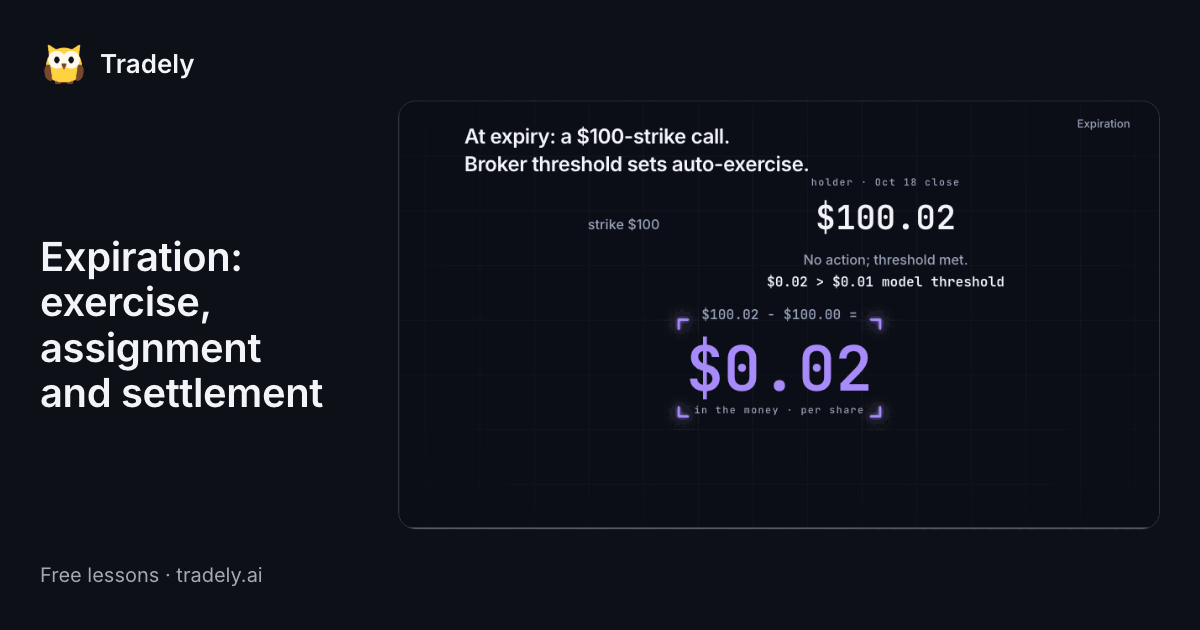
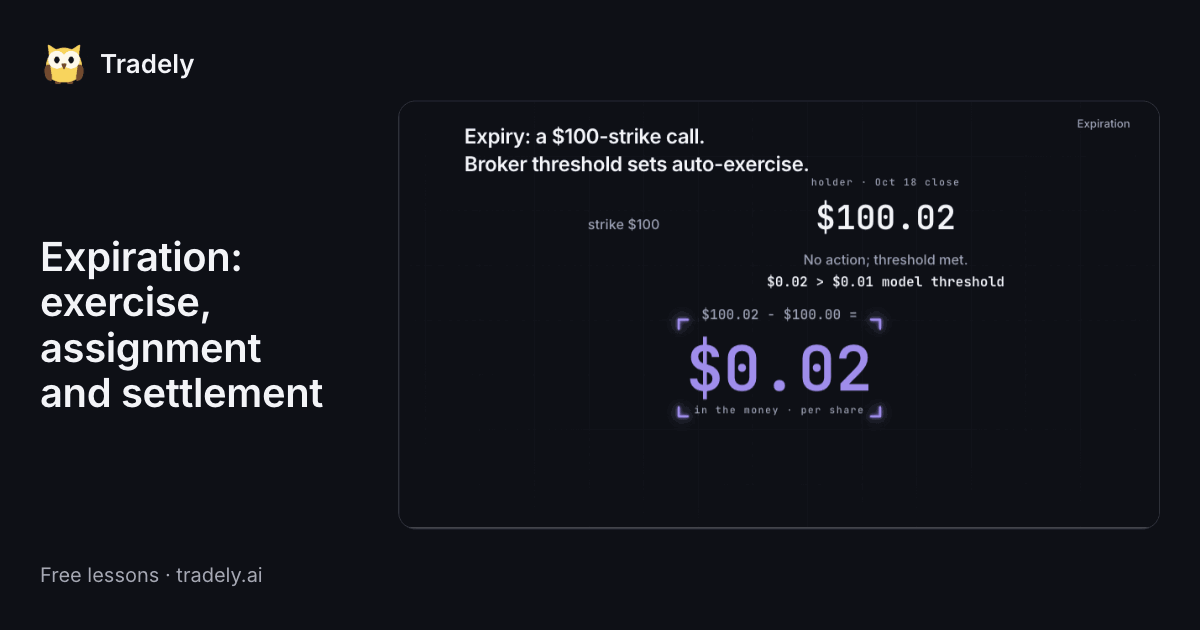
fix(learning): expiration film's hero headline is one headline's length
"At expiry: a $100-strike call." becomes "Expiry: a $100-strike call.": 8 words with the line under it, up 5.2 s. The share card shows it.

The two-line headline rule decided on 2026-11-15: a pair runs 12 words, or 14 where the first line stands alone 5 s and each line is at most 36 characters, and a pair over 8 words stays up 5.5 s. English only; no timing changes.

Changed region(s): [[0.37, 0.181, 0.6167, 0.2413], [0.0308, 0.0603, 0.0617, 0.1508]]

diff --git a/apps/web/src/features/learning/lessons/expiration-settlement-film.tsx b/apps/web/src/features/learning/lessons/expiration-settlement-film.tsx
@@ -146,7 +146,7 @@ const copy = {
 	],
 	american: ["American", "美式"],
 	european: ["European", "欧式"],
-	pinHead: ["At expiry: a $100-strike call.", "到期：$100 行权价看涨。"],
+	pinHead: ["Expiry: a $100-strike call.", "到期：$100 行权价看涨。"],
 	autoHead: ["Broker threshold sets auto-exercise.", "券商门槛决定自动行权。"],
 	holderClose: ["holder · Oct 18 close", "持有人 · 10月18日收盘"],
 	writerClose: ["ALFA · close", "ALFA · 收盘"],
